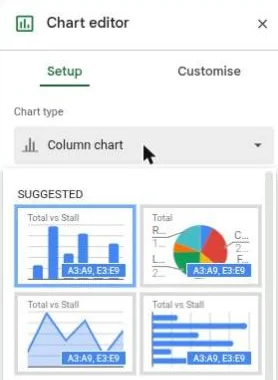
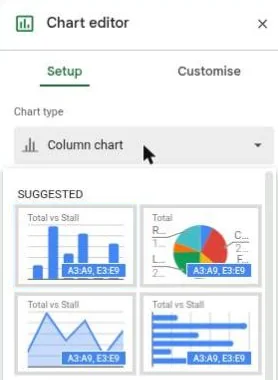
Lessons 6–7: no screenshot shows the answer already open or chosen
- New crop customise-pie (from shot 09): the pie chart's Customise tab with
  every section closed. "Cake stall's slice green: tap the section you open"
  and "tap the section that holds the chart's title" now use it (before, Pie
  slice / Chart and axis titles were already open in the picture).
- chart-type: the column chart's blue "chosen" border is repainted like its
  neighbours, so "Tap the column chart" no longer shows the answer.
- "Lunch columns in a new colour: tap the section you open" is now a choice
  (Series / Legend / Chart style / Chart and axis titles): the only column
  chart Customise shot has Series already open.
- Lesson 6: "Tap the box that keeps the headings on top" is now "why does
  Sort by say Stall, not Column A?" (the real sort window has the box
  already ticked); a screenshot in a choice question is capped at 340px so
  the answers fit on a Chromebook.
SCREENSHOTS_WANTED.md: notes the rule, and asks for a column chart's
Customise tab with every section closed.

Claude-Session: https://claude.ai/code/session_011BbGonQdQw1HEAXtyKUz6k

Changed region(s): [[0.0288, 0.5211, 0.518, 0.7816]]

diff --git a/content/practice.js b/content/practice.js
@@ -756,7 +756,8 @@ export const practice = {
     learn: { visual: { image: "sort-window", highlight: "Data has header row" },
       note: "Ticked: the headings in row 3 stay on top, and Sort by shows Stall, not Column A." },
     exercises: [
-      { type: "hotspot", fact: "A tick box in the sort window", screen: "sort-window", target: "Data has header row", prompt: "Your selection A3:E9 includes the headings in row 3. Tap the box that keeps them on top." },
+      { type: "choice", fact: "shows their names instead of \"Column A\"", prompt: "In this sort window, why does Sort by say Stall, not Column A?", visual: { image: "sort-window" },
+        correct: "Data has header row is ticked", wrong: ["The table is already sorted A to Z", "You added a sort column", "Then by is set to Morning"] },
       { type: "choice", fact: "Tick it when your selection includes the row of headings", prompt: "You selected A1:B6, and row 1 holds the headings. What do you do in the sort window?", correct: "Tick Data has header row", wrong: ["Leave Data has header row unticked", "Delete the headings first", "Add another sort column"] },
       { type: "choice", fact: "shows their names instead of \"Column A\"", prompt: "Data has header row isn't ticked. The hours are in column B, under the heading Hours. What does the Sort by list show?", correct: "Column B", wrong: ["Hours", "Helper", "Column A"] },
       { type: "choice", fact: "they stay on top", prompt: "You tick Data has header row and sort. Where are the headings now?", correct: "Still on top, in row 1", wrong: ["Sorted in with the data", "At the bottom", "Gone: they were deleted"] },
@@ -830,7 +831,7 @@ export const practice = {
       note: "Customise → Chart and axis titles → Chart title, then type it in Title text. Sheets starts with a name like “Total”: change it so it says what the chart shows." },
     exercises: [
       { type: "hotspot", fact: "The heading above a chart", ui: { chart: pieTotals }, target: "title", prompt: "Tap the chart title." },
-      { type: "hotspot", fact: "then type it", screen: "titles", target: "Chart and axis titles", prompt: "Tap the section of the Customise tab that holds the chart's title." },
+      { type: "hotspot", fact: "then type it", screen: "customise-pie", target: "Chart and axis titles", prompt: "Tap the section of the Customise tab that holds the chart's title." },
       { type: "hotspot", fact: "then type it", screen: "titles", target: "Title text", prompt: "Chart title is picked. Tap where you type the title." },
       { type: "choice", fact: "The heading above a chart", prompt: "What's missing from this chart?", visual: { chart: { ...pieTotals, title: "" } }, correct: "A chart title", wrong: ["A legend", "Percentages", "Slices"] },
       { type: "choice", fact: "The heading above a chart", prompt: "Which is the best title for this chart?", visual: { chart: { ...pieTotals, title: "" } }, correct: "Fair Takings by Stall", wrong: ["Total", "Chart 1", "Numbers"] },
@@ -852,9 +853,9 @@ export const practice = {
     learn: { visual: { image: "pie-slice", highlight: "Pie slice" },
       note: "For one slice: Customise → Pie slice → pick the slice → Colour. For a set of columns: Customise → Series → pick the series → Fill colour." },
     exercises: [
-      { type: "hotspot", fact: "choose a colour", screen: "pie-slice", target: "Pie slice", prompt: "You want Cake stall's slice to be green. Tap the section you open." },
+      { type: "hotspot", fact: "choose a colour", screen: "customise-pie", target: "Pie slice", prompt: "You want Cake stall's slice to be green. Tap the section you open." },
       { type: "hotspot", fact: "choose a colour", screen: "pie-slice", target: "slice list", prompt: "Pie slice is open. Tap where you pick which slice." },
-      { type: "hotspot", fact: "pick the set of columns", screen: "series-colour", target: "Series", prompt: "You want the Lunch columns in a new colour. Tap the section you open." },
+      { type: "choice", fact: "pick the set of columns", prompt: "You want the Lunch columns in a new colour. Which section of the Customise tab do you open?", correct: "Series", wrong: ["Legend", "Chart style", "Chart and axis titles"] },
       { type: "hotspot", fact: "pick the set of columns", screen: "series-colour", target: "series list", prompt: "Series is open. Tap where you pick which set of columns." },
       { type: "choice", fact: "Or click it on the chart", prompt: "What's a quick way to get to one slice's colour?", correct: "Click the slice on the chart", wrong: ["Sort the table", "Delete the chart", "Click the Name Box"] },
       { type: "choice", fact: "pick the set of columns", prompt: "In a column chart, what is a series?", correct: "One set of columns, like all the Lunch columns", wrong: ["One stall's name", "The chart's title", "A tick box on the Setup tab"] },

diff --git a/content/screens.js b/content/screens.js
@@ -89,8 +89,10 @@ export const screens = {
 
   // ================================================================ Lessons 6 and 7: menus, the sort window, charts
   // Cropped from ../spreadsheets/screenshots/google_sheets/menus/ by tools/crop_screens.py (Oct 2026,
-  // UK/AU locale: "Customise", "Fill colour"). The Insert menu's Chart row and the ⋮ menu's Edit the
-  // chart row had a hover highlight (and the cursor) that gave the answer away: cleaned before cropping.
+  // UK/AU locale: "Customise", "Fill colour"). Anything that would give an answer away is cleaned
+  // first: the hover on Insert → Chart and on ⋮ → Edit the chart, and the blue "chosen" border on the
+  // column chart in the Chart type list. A question that asks which section to open uses
+  // customise-pie, where every section is still closed.
   "menu-bar": {
     src: "assets/screens/menu-bar.webp", w: 420, h: 28,
     alt: "The Google Sheets menu bar: File, Edit, View, Insert, Format, Data, Tools, Extensions, Help",
@@ -237,6 +239,18 @@ export const screens = {
       "Legend": { r: [16, 572, 250, 30], label: "the Legend section" },
     },
   },
+  "customise-pie": {
+    src: "assets/screens/customise-pie.webp", w: 293, h: 258,
+    alt: "The chart editor's Customise tab for a pie chart, every section closed: Chart style, Pie chart, Pie slice, Chart and axis titles",
+    regions: {
+      "Setup": { r: [30, 7, 76, 30], label: "the Setup tab" },
+      "Customise": { r: [164, 7, 92, 30], label: "the Customise tab" },
+      "Chart style": { r: [16, 50, 250, 30], label: "the Chart style section" },
+      "Pie chart": { r: [16, 103, 250, 30], label: "the Pie chart section" },
+      "Pie slice": { r: [16, 156, 250, 30], label: "the Pie slice section" },
+      "Chart and axis titles": { r: [16, 210, 250, 30], label: "the Chart and axis titles section" },
+    },
+  },
   "pie-slice": {
     src: "assets/screens/pie-slice.webp", w: 293, h: 322,
     alt: "The chart editor's Customise tab with Pie slice open: the Cake stall slice is picked, with its Colour button",
@@ -304,8 +318,6 @@ export const screens = {
     alt: "A selected pie chart with small square handles at its corners and edges, and ⋮ at the top right",
     regions: {
       "⋮": { r: [533, 12, 24, 26], label: "the ⋮ button (the chart's menu)" },
-      "chart title": { r: [26, 21, 180, 28], label: "the chart title" },
-      "legend": { r: [454, 50, 98, 120], label: "the legend" },
       "chart": { r: [68, 58, 360, 260], label: "the chart itself (grab it to move it)" },
       "corner": { r: [548, 335, 20, 20], label: "the bottom-right corner handle" },
       "top-left corner": { r: [6, 0, 20, 18], label: "the top-left corner handle" },
@@ -314,7 +326,6 @@ export const screens = {
       "bottom edge": { r: [277, 335, 20, 20], label: "the handle in the middle of the bottom edge" },
     },
   },
-
 
   // ================================================================ drawn stand-ins
   // Not photographed yet (docs/SCREENSHOTS_WANTED.md). Shown in learn cards and questions only,

diff --git a/css/practice.css b/css/practice.css
@@ -481,3 +481,4 @@ button.menu-bar__item { cursor: pointer; }
 .ctrl-latch__text { font-weight: 700; }
 .ctrl-row__tip { color: var(--c-text-soft); font-size: var(--fs-sm); }
 .data-menus--insert { margin-left: min(110px, 9%); }
+.ex-choice .ex-visual .shot { width: min(100%, var(--w), 340px); }

diff --git a/tools/crop_screens.py b/tools/crop_screens.py
@@ -38,6 +38,13 @@ def source(name):
         d.text((198, 270), "Chart", font=ImageFont.truetype("/usr/share/fonts/liberation/LiberationSans-Regular.ttf", 13), fill=(60, 64, 67))
     if name == "10_chart_menu_move_to_own_sheet":  # Edit the chart is hovered
         unhover(im, (769, 352, 946, 380))
+    if name == "05_setup_chart_type_list":  # the column chart (the current type) has a blue "chosen" border
+        px = im.load()
+        x0, y0, x1, y1 = 1046, 264, 1169, 348  # copy the pie thumbnail's grey border, 125px to the right
+        for x in range(x0, x1):
+            for y in range(y0, y1):
+                if min(x - x0, x1 - 1 - x, y - y0, y1 - 1 - y) <= 5:
+                    px[x, y] = px[x + 125, y]
     return im
 
 TABS = {"Setup": (1062, 117, 76, 30, "the Setup tab"), "Customise": (1196, 117, 92, 30, "the Customise tab")}
@@ -89,6 +96,9 @@ S = {
    "Title font": (1046, 539, 131, 40, "the Title font list"), "Title font size": (1184, 539, 122, 40, "the Title font size list"),
    "Title format": (1046, 616, 94, 40, "the Title format buttons (bold, italic)"), "Title text colour": (1184, 616, 95, 40, "the Title text colour list"), "Legend": sec(682, "Legend")},
    "The chart editor's Customise tab with Chart and axis titles open: Chart title, Title text, font, size, format and colour"),
+ "customise-pie": ("09_customise_legend", (1032, 110, 1325, 368), {**TABS,
+   "Chart style": sec(160, "Chart style"), "Pie chart": sec(213, "Pie chart"), "Pie slice": sec(266, "Pie slice"), "Chart and axis titles": sec(320, "Chart and axis titles")},
+   "The chart editor's Customise tab for a pie chart, every section closed: Chart style, Pie chart, Pie slice, Chart and axis titles"),
  "pie-slice": ("08a_customise_pie_slice_colour", (1032, 110, 1325, 432), {**TABS,
    "Chart style": sec(160, "Chart style"), "Pie chart": sec(213, "Pie chart"), "Pie slice": sec(266, "Pie slice"),
    "slice list": (1046, 313, 260, 40, "the list where you pick the slice"), "Colour": (1046, 393, 60, 34, "the Colour button")},

diff --git a/docs/SCREENSHOTS_WANTED.md b/docs/SCREENSHOTS_WANTED.md
@@ -7,6 +7,7 @@ drawn by the app as **stand-ins**, so each one can be swapped for a real screens
 
 1. Take the screenshot in the School Fair sample (Takings in A3:E9), on a Chromebook-sized
    window, with nothing hovered (move the pointer away: a grey hover row gives the answer away).
+   For "which section/item do you open?" questions the answer must still be closed in the shot.
 2. Either crop it yourself and save it as `assets/screens/<filename>.webp`, or put the full
    screenshot in `../spreadsheets/screenshots/google_sheets/menus/` and add a row to
    `tools/crop_screens.py` (crop box + regions), then run `python3 tools/crop_screens.py`.
@@ -24,14 +25,15 @@ regions, so they're a small edit to `content/practice.js` too.
 | `menu-bar` | 11 (menu bar only) | Which menu sorts (Data)? Which menu makes a chart (Insert)? |
 | `data-menu` | 01 | Data → Sort range (not Sort sheet) |
 | `data-menu-sort-range` | 02 | Advanced range sorting options (learn card + tap) |
-| `sort-window` | 03 | Data has header row, Sort by, Z to A, then by, Add another sort column, Sort |
+| `sort-window` | 03 | Sort by, Z to A, then by, Add another sort column, Sort; "why does Sort by say Stall?" (Data has header row is already ticked here, so it's a choice, not a tap) |
 | `insert-menu` | 04 (Chart row's hover removed) | Insert → Chart |
-| `chart-type` | 05 | Tap the pie / column / bar chart in the Chart type list |
+| `chart-type` | 05 (the column chart's blue "chosen" border repainted grey) | Tap the pie / column / bar chart in the Chart type list |
 | `setup-column` | 06a | Chart editor learn card; Customise tab, Chart type, Data range, Switch rows/columns |
 | `setup-switched` | 06b | Where are the stalls after Switch rows/columns? (the legend) |
-| `titles` | 07 | Chart and axis titles, Title text, the list for picking which title |
-| `pie-slice` | 08a (cropped above the colour list) | Customise → Pie slice, pick the slice |
-| `series-colour` | 08b (cropped above the colour list) | Customise → Series, pick the series |
+| `customise-pie` | 09 (top part: every section closed) | Which section do you open? Pie slice; Chart and axis titles |
+| `titles` | 07 | Title text, the list for picking which title (the section is already open) |
+| `pie-slice` | 08a (cropped above the colour list) | Learn card; pick the slice (Pie slice is already open) |
+| `series-colour` | 08b (cropped above the colour list) | Pick the series (Series is already open) |
 | `legend` | 09 | The legend on the chart; Legend → Position, Legend font size |
 | `chart-menu` | 10 (Edit the chart's hover removed) | ⋮ → Edit the chart, ⋮ → Move to own sheet |
 | `chart-selected` | 11 | ⋮, the corner handle (resize), the chart itself (move) |
@@ -52,6 +54,7 @@ Most useful first. "Stand-in" means the app draws it now and swaps it in with on
 | 8 | `sort-window-no-header.webp` | 6 | Select A3:E9 → Data → Sort range → Advanced range sorting options, and **untick** Data has header row. | Sort by showing **Column A** (not Stall). | would let *data has header row* show what goes wrong without the tick |
 | 9 | `chart-type-bar.webp` | 7 | Setup → Chart type list, scrolled down to the **Bar** section (and Pie above it if it fits). | The Bar chart pictures with their section heading. | optional: `chart-type` already shows a bar chart under Suggested |
 | 10 | `stacking.webp` | 7 | Select A3:D9 → Insert → Chart, before changing anything. | The default **stacked** column chart and Setup → Stacking: Standard. | only if Stacking → None is added to the Knowledge Bank (the slides' column chart needs it: Sheets stacks by default) |
+| 11 | `customise-column.webp` | 7 | Column chart from A3:D9 → Customise, with **every section closed**. | Chart style, Chart and axis titles, Series, Legend, Horizontal axis, Vertical axis, all with › chevrons. | would make "which section do you open for a series colour?" a tap (it's a choice now, because 08b has Series open) |
 
 Not needed: the Customise sections themselves (Chart style, Pie chart, Pie slice, Chart and axis
 titles, Legend, Series) are all in the shots above, and every chart in the questions (pie,
